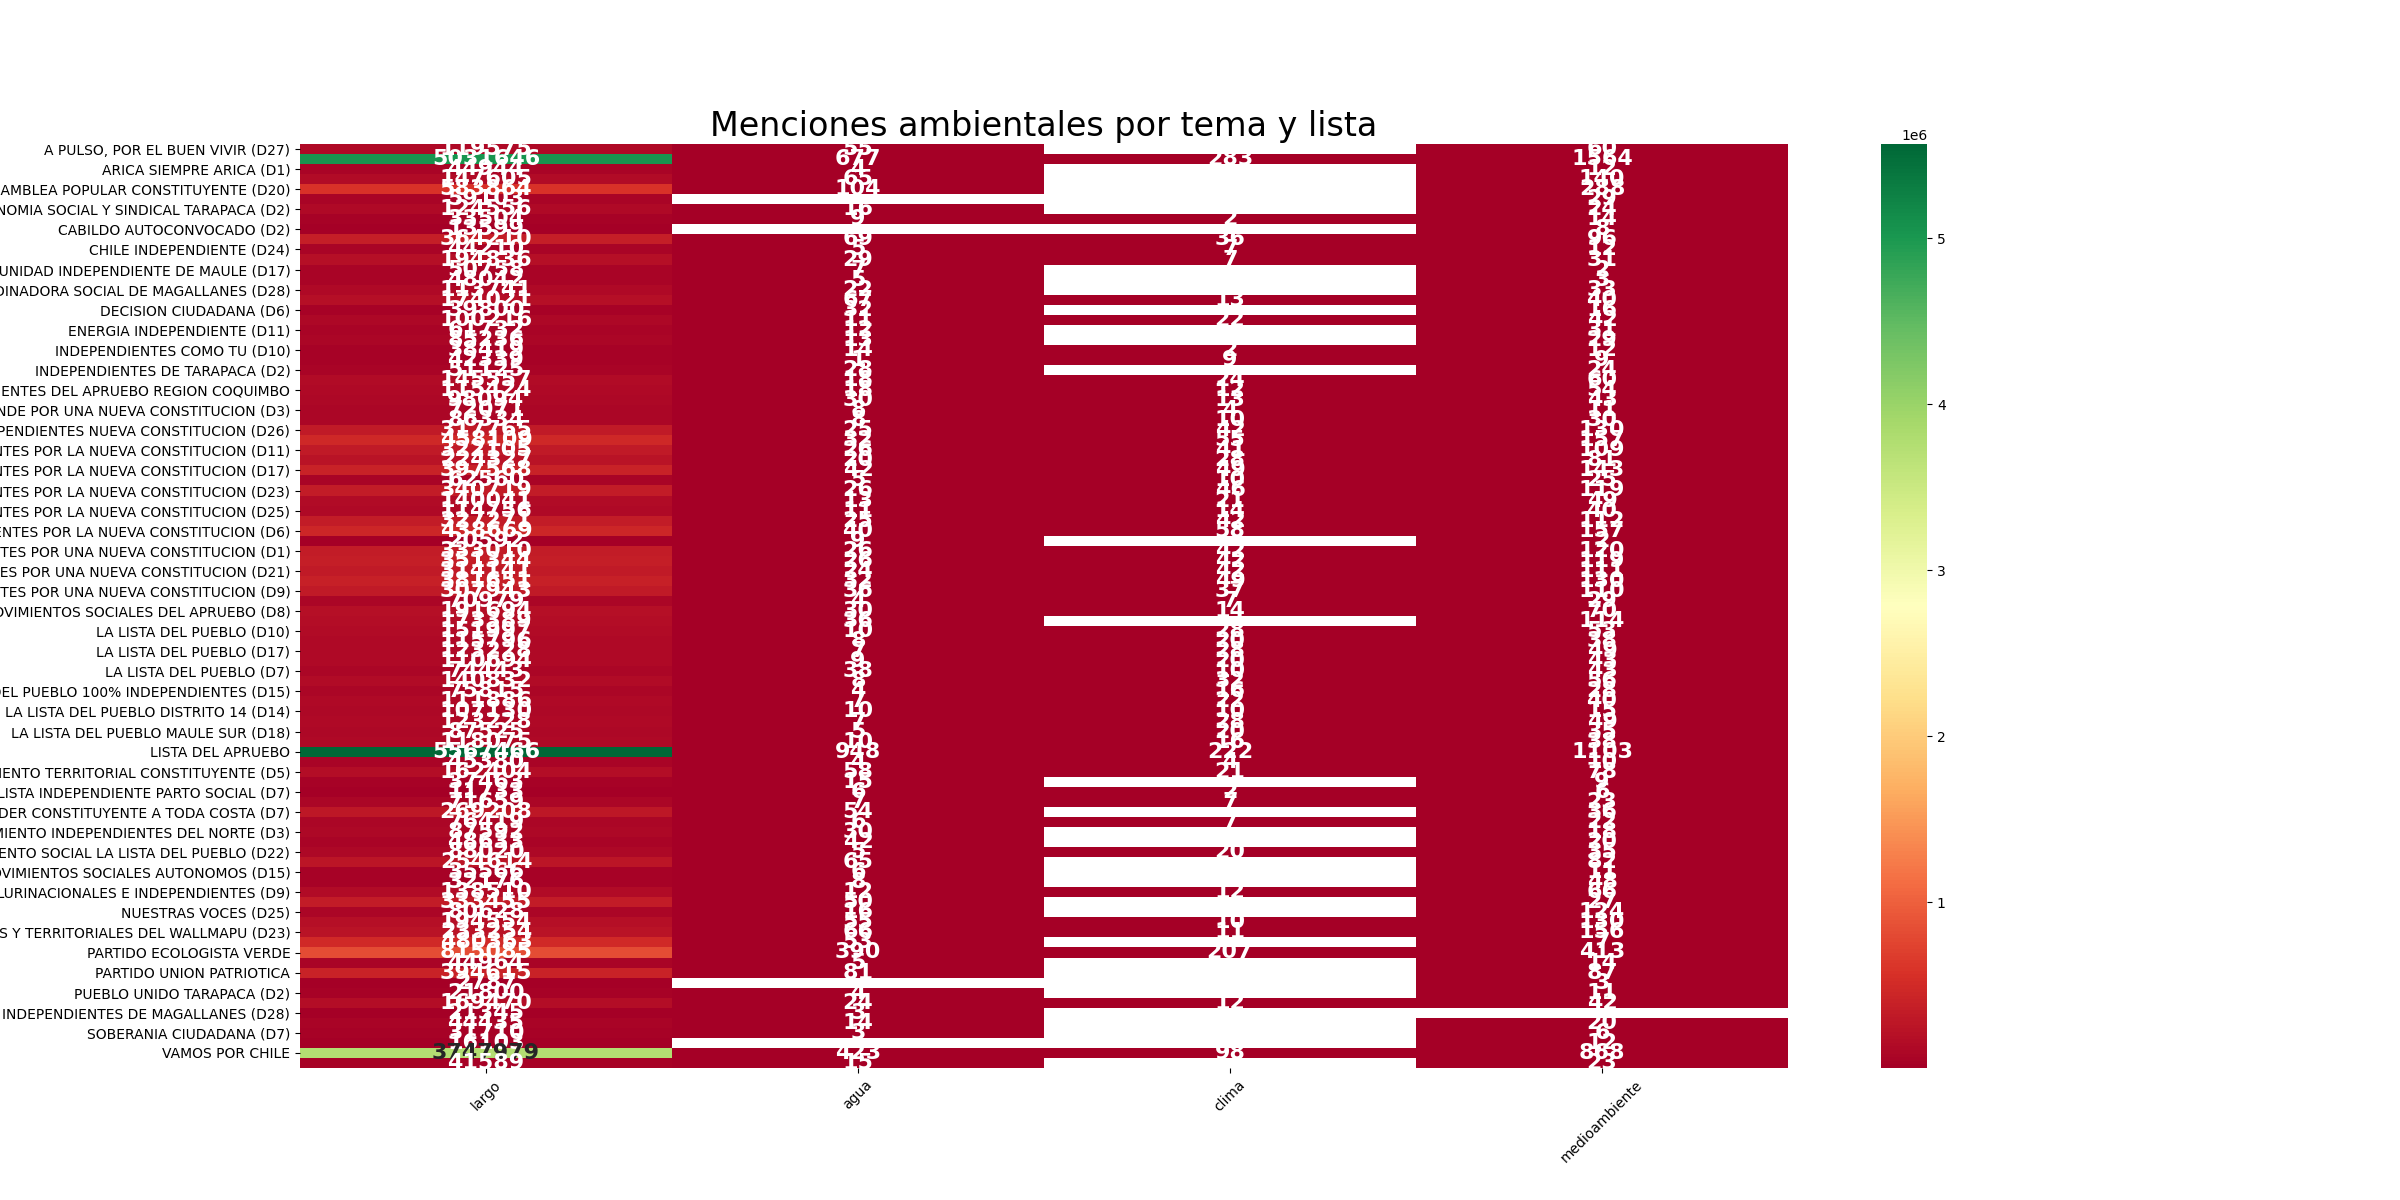
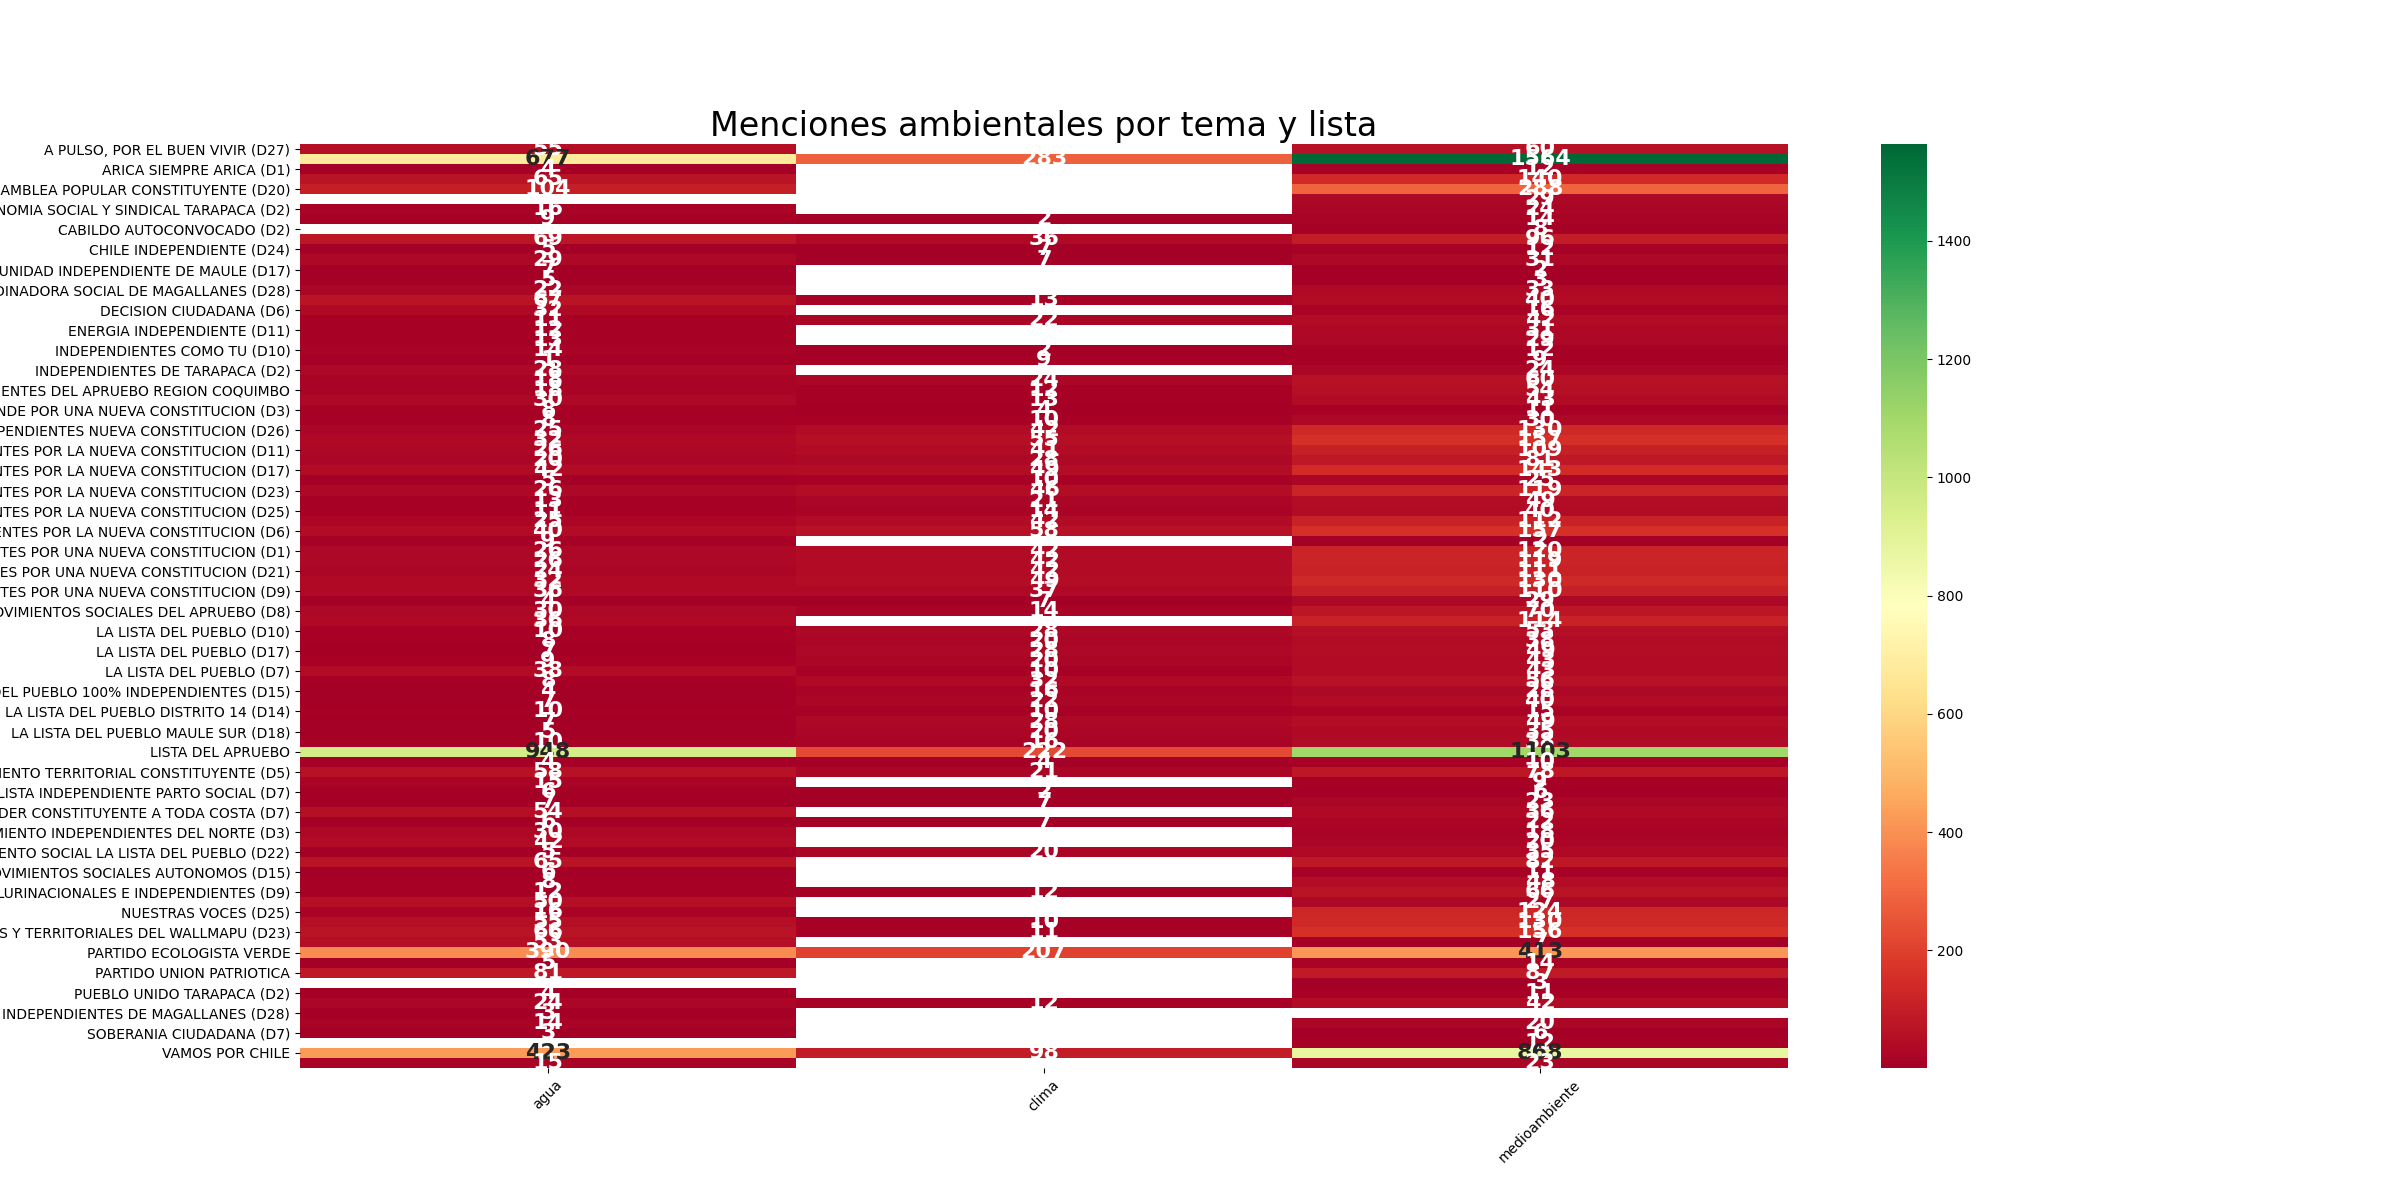
2 more heatmaps

Changed region(s): [[0.125, 0.0925, 0.75, 0.8942], [0.625, 0.925, 0.6875, 0.9558]]

diff --git a/plotters.py b/plotters.py
@@ -41,7 +41,7 @@ for conc, mens in kw.items():
 xdf['partido'] = xdf.partido.apply(lambda p: p.split('IND ')[1]+'-IND' if 'IND ' in p else p) # fixer
 
 ddf = xdf.groupby('distrito').sum()
-psdf = ddf
+psdf = ddf.drop('largo', axis=1)
 fig, ax = plt.subplots(1, figsize=(24,12))
 p=sns.heatmap(psdf.replace(0,np.nan), annot=True, annot_kws={'size':16, 'weight': 'bold'}, 
               cmap='RdYlGn', fmt='.0f');
@@ -50,7 +50,7 @@ plt.savefig('static/heatmap_distritos.png')
 plt.close()
 #############################
 ldf = xdf.groupby('lista').sum()
-psdf = ldf
+psdf = ldf.drop('largo', axis=1)
 fig, ax = plt.subplots(1, figsize=(24,12))
 p=sns.heatmap(psdf.replace(0,np.nan), annot=True, annot_kws={'size':16, 'weight': 'bold'}, 
               cmap='RdYlGn', fmt='.0f');
